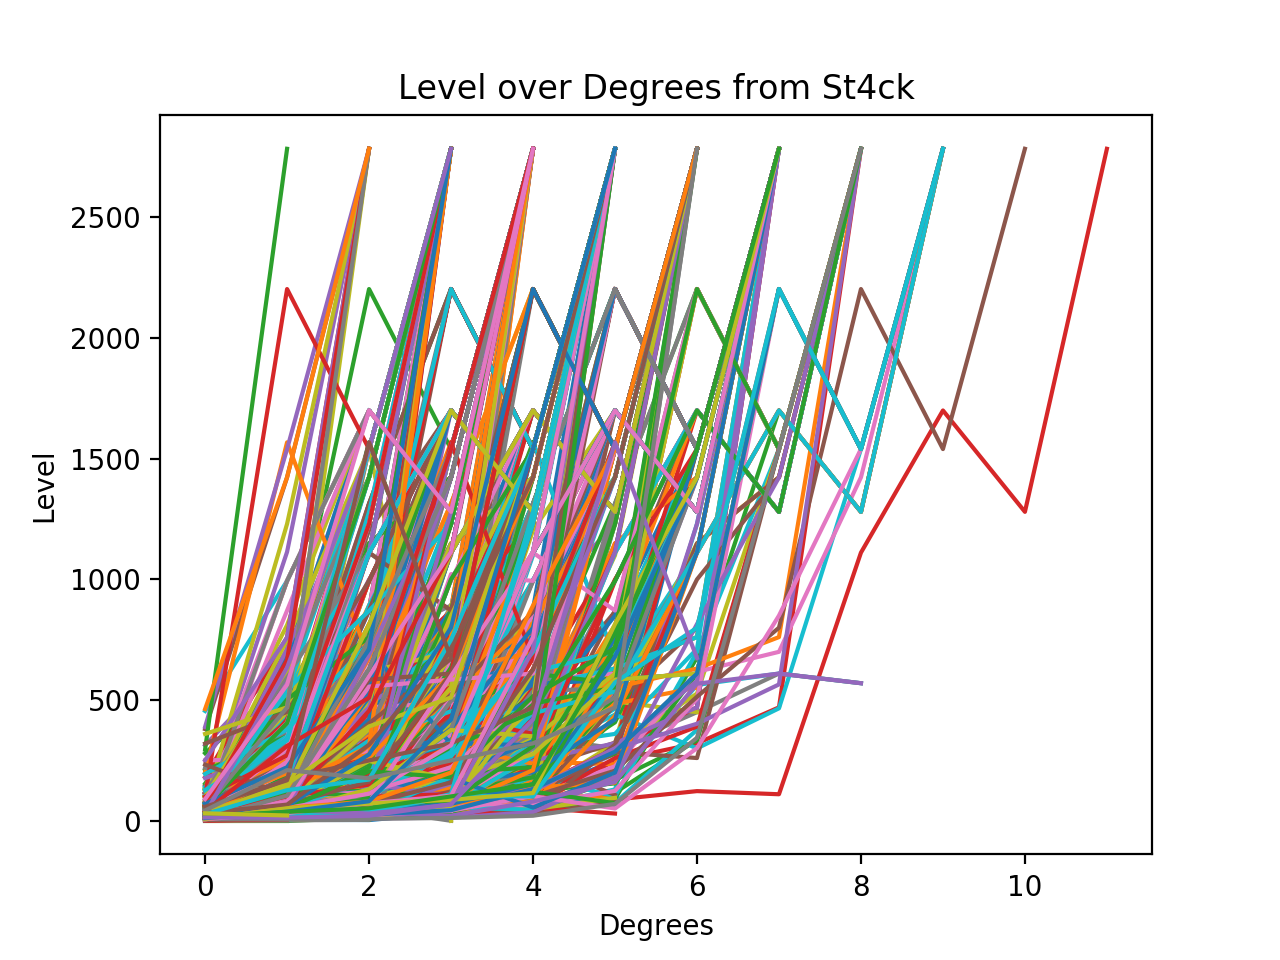
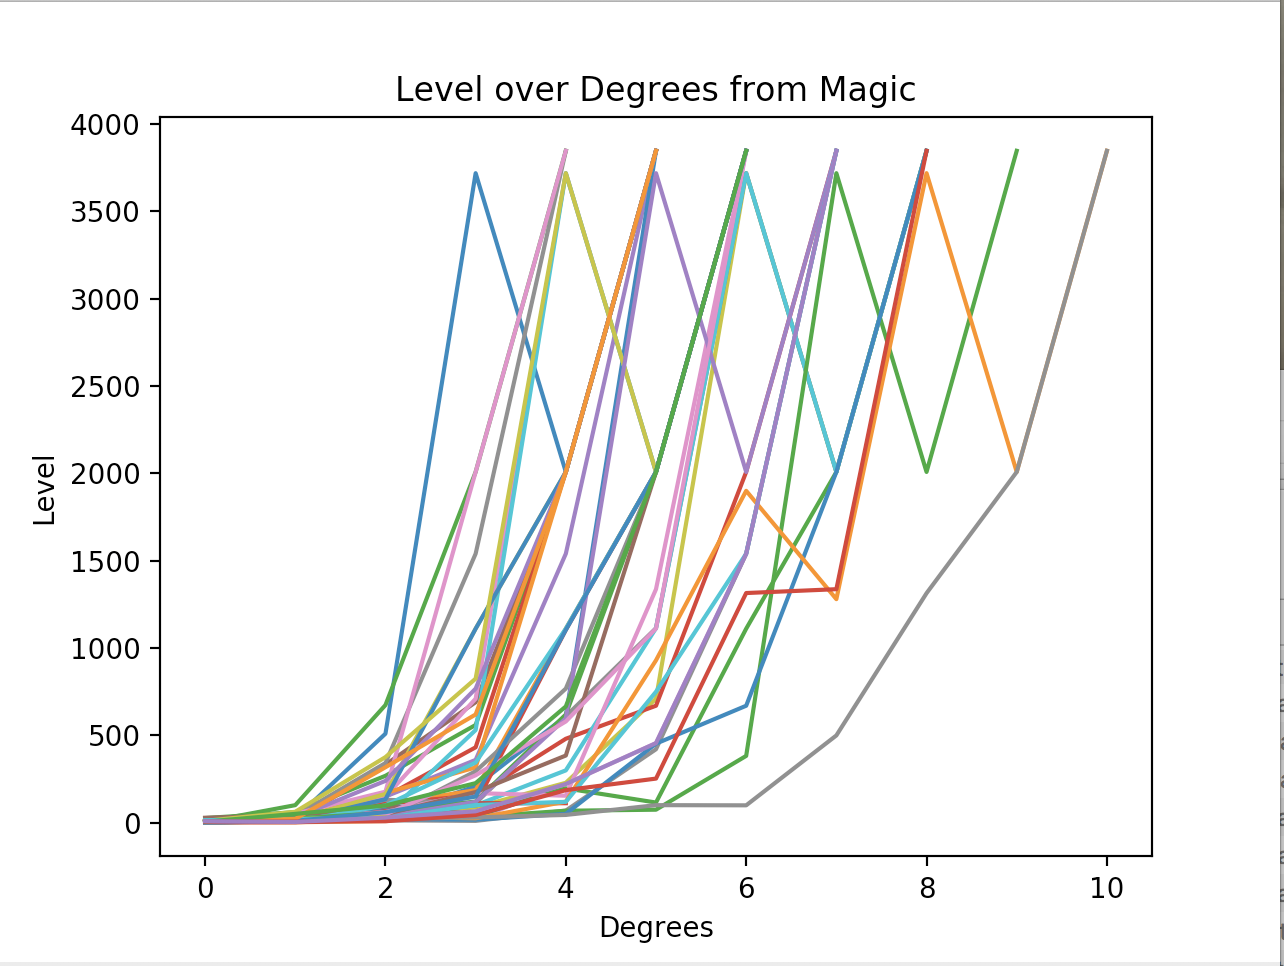
update charting & images

diff --git a/Magic/graphing.py b/Magic/graphing.py
@@ -1,5 +1,6 @@
 import plotly.plotly as py
 
+
 def graph_line(data):
     import matplotlib.pyplot as plt
     for a in data:
@@ -7,16 +8,16 @@ def graph_line(data):
 
     plt.xlabel('Degrees')
     plt.ylabel('Level')
-    plt.title('Level over Degrees from St4ck')
+    plt.title('Level over Degrees from Magic')
 
     plt.show()
 
 
 def graph_pie(data):
     import matplotlib.pyplot as plt
-    labels = 'To St4ck', 'Not To St4ck'
-    sizes = [len([account for account in data if list(account.keys())[-1] == 'St4ck']),
-             len([account for account in data if not list(account.keys())[-1] == 'St4ck'])]
+    labels = 'To Magic', 'Not To Magic'
+    sizes = [len([account for account in data if list(account.keys())[-1] == 'Magic']),
+             len([account for account in data if not list(account.keys())[-1] == 'Magic'])]
     colors = ['lightblue', 'red']
 
     plt.pie(sizes, labels=labels, colors=colors,
@@ -29,15 +30,15 @@ def graph_pie(data):
 def graph_bar(data):
     import matplotlib.pyplot as plt
     degrees = [len(account)
-               for account in data if list(account.keys())[-1] == 'St4ck']
+               for account in data if list(account.keys())[-1] == 'Magic']
 
     sorted_degrees = [degrees.count(x) for x in range(max(degrees) + 1)]
 
     plt.bar(range(len(sorted_degrees)), sorted_degrees)
     plt.xticks(range(len(sorted_degrees)), range(max(degrees) + 1))
-    plt.title("Degrees of Separation from St4ck")
-    plt.xlabel("Degrees")
-    plt.ylabel("Accounts")
+    plt.title('Degrees of Separation from Magic')
+    plt.xlabel('Degrees')
+    plt.ylabel('Accounts')
     plt.show()
 
 
@@ -64,16 +65,16 @@ def graph_sankey(data):
     value = [x[2] for x in indexed_links]
 
     data = dict(
-        type="sankey",
+        type='sankey',
         node=dict(
             pad=15,
             thickness=20,
             line=dict(
-                color="black",
+                color='black',
                 width=0.5
             ),
             label=labels,
-            color=["blue" for x in range(len(labels))]
+            color=['blue' for x in range(len(labels))]
         ),
         link=dict(
             source=source,
@@ -83,7 +84,7 @@ def graph_sankey(data):
     )
 
     layout = dict(
-        title="The Path to St4ck",
+        title='The Path to Magic',
         font=dict(
             size=10
         )

diff --git a/tests/tests.py b/tests/tests.py
@@ -11,7 +11,7 @@ import os
 
 class Test_Magic(unittest.TestCase):
     def test_scraping(self):
-        main('-o data.json'.split())
+        main('-f data.json'.split())
 
         with open('data.json') as file_:
             data = json.load(file_)
@@ -22,7 +22,7 @@ class Test_Magic(unittest.TestCase):
 
     def test_verbose(self):
         with io.StringIO() as buf, redirect_stdout(buf):
-            main('-o data.json -v'.split())
+            main('-f data.json -v'.split())
             output = buf.getvalue().split('\n')
 
         output = output[:-1]
@@ -34,7 +34,7 @@ class Test_Magic(unittest.TestCase):
         os.remove('data.json')
 
     def test_multiple(self):
-        main('-o data.json -n 5'.split())
+        main('-f data.json -n 5'.split())
 
         with open('data.json') as file_:
             data = json.load(file_)
@@ -44,12 +44,12 @@ class Test_Magic(unittest.TestCase):
         os.remove('data.json')
 
     def test_targeted(self):
-        main('-o data.json -id kachangred'.split())
+        main('-f data.json -id kachangred'.split())
 
         with open('data.json') as file_:
             data = json.load(file_)
 
-        main('-o data1.json -id 76561198045813683'.split())
+        main('-f data1.json -id 76561198045813683'.split())
 
         with open('data.json') as file_:
             data1 = json.load(file_)

diff --git a/run.py b/run.py
@@ -11,7 +11,7 @@ def main(args=None):
 
     parser = argparse.ArgumentParser()
 
-    parser.add_argument('-o', help='output file', required=True)
+    parser.add_argument('-f', help='file', required=True)
     parser.add_argument('-sankey', help='graph a sankey chart',
                         required=False, action='store_true')
     parser.add_argument('-line', help='graph a line chart',
@@ -28,8 +28,8 @@ def main(args=None):
 
     args = parser.parse_args(args)
 
-    file_name = args.o if args.o.endswith(
-        '.json') else '{}.json'.format(args.o)
+    file_name = args.f if args.f.endswith(
+        '.json') else '{}.json'.format(args.f)
 
     if not args.sankey and not args.line and not args.pie and not args.bar:
         try:

diff --git a/README.md b/README.md
@@ -1,5 +1,7 @@
 # Magic Analysis
 
+[![Build Status](https://travis-ci.com/kajchang/St4ck.svg?branch=master)](https://travis-ci.com/kajchang/St4ck)
+
 Have you ever noticed that if you continuously follow your highest-level steam friend and then their highest-level steam friend and so on, most of the time, you'll find Magic, the highest level Steam account, at the top of the pile?
 
 
@@ -40,21 +42,21 @@ This will read data from data.json and generate a pie chart from it. Other valid
 The pie, bar, and line charts use matplotlib, but the sankey chart uses [plot.ly](https://plot.ly/) so you'll need to set up your API key before generating the sankey chart.
 
 ```bar.py```:
-![bar.png](https://github.com/kajchang/st4ck/raw/master/images/bar.png)
+![bar.png](https://github.com/kajchang/Magic/raw/master/images/bar.png)
 
 Graphs the distribution of accounts' degrees of separation from Magic.
 
 ```pie.py```:
-![pie.png](https://github.com/kajchang/st4ck/raw/master/images/pie.png)
+![pie.png](https://github.com/kajchang/Magic/raw/master/images/pie.png)
 
 Shows the percentage of accounts that led to Magic and the percentage that didn't.
 
 ```sankey.py```:
-![sankey.png](https://github.com/kajchang/st4ck/raw/master/images/sankey.png)
+![sankey.png](https://github.com/kajchang/Magic/raw/master/images/sankey.png)
 
 Shows the flow of users to Magic, it's hard to see in a single image because of the volume of links and nodes. See and explore it on plot.ly [here](https://plot.ly/~kachang/16/the-path-to-st4ck/#/).
 
 ```line.png```:
-![line.png](https://github.com/kajchang/st4ck/raw/master/images/line.png)
+![line.png](https://github.com/kajchang/Magic/raw/master/images/line.png)
 
 Shows how the level rises as the accounts get closer to Magic.
